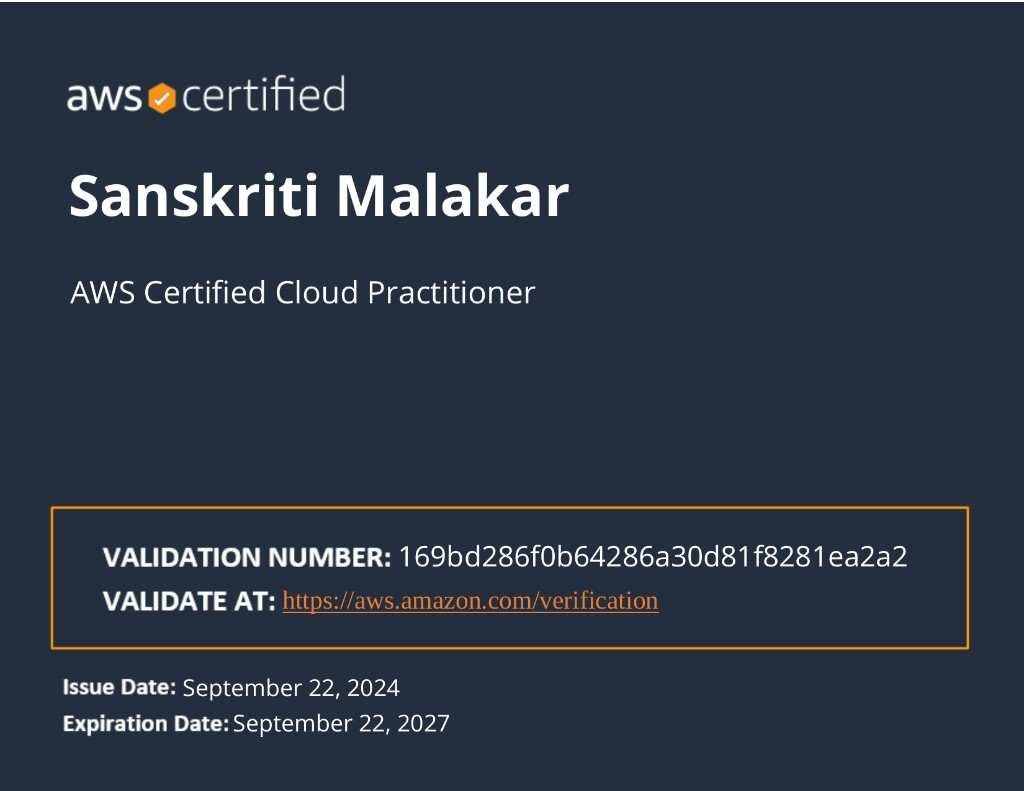
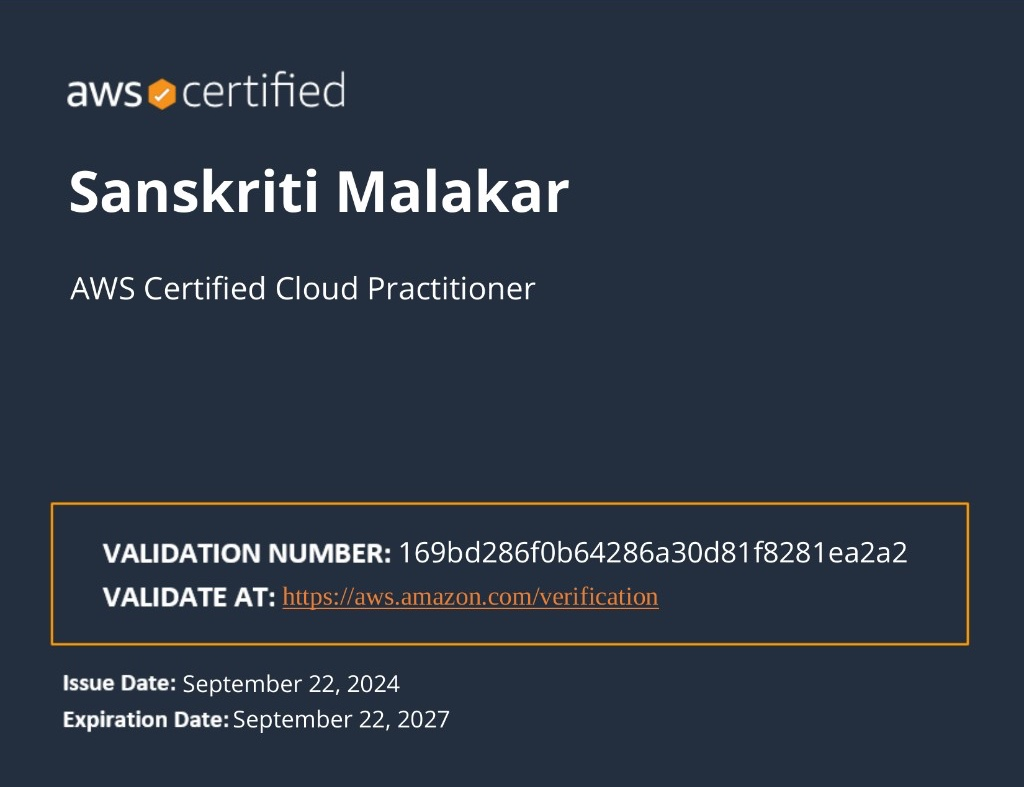
Remove white edge from enlarged certificates

diff --git a/src/routes/about.tsx b/src/routes/about.tsx
@@ -182,7 +182,7 @@ function CertificateLightbox({
             src={cert.image}
             alt={cert.title}
             transition={{ type: "spring", stiffness: 260, damping: 30 }}
-            className="max-h-[80vh] w-auto max-w-full rounded-xl bg-white object-contain shadow-2xl"
+            className="max-h-[80vh] w-auto max-w-full rounded-xl object-contain shadow-2xl"
           />
           <p className="text-center font-body text-sm text-[oklch(0.97_0.012_235/0.85)]">
             {cert.title} · {cert.date}
